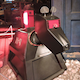
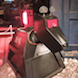
introducing marvin

diff --git a/server/bots/marvin.js b/server/bots/marvin.js
@@ -1,0 +1,64 @@
+const getTurns = (botToken, getState, turnsPlayedByBot, successfullTurnsPlayedByBot, viewerBoard) => {
+
+  
+  const continuePreviousHits = []
+
+  successfullTurnsPlayedByBot.forEach(turnIndex => {
+    if(turnsPlayedByBot.indexOf(turnIndex) !== -1) {
+      return
+    }
+    // up
+    if(turnIndex > 9) {
+        continuePreviousHits.push(turnIndex - 10)
+    }
+    if((turnIndex % 10) < 9) {
+        continuePreviousHits.push(turnIndex + 1)
+    }
+    if(turnIndex < 90) {
+        continuePreviousHits.push(turnIndex + 10)
+    }
+    if((turnIndex % 10) > 0) {
+        continuePreviousHits.push(turnIndex - 1)
+    }
+  })
+  const validPositions = viewerBoard.reduce((previousValidPositions, position, index) => {
+    return position > 0 && turnsPlayedByBot.indexOf(index) === -1 ? [... previousValidPositions, index] : previousValidPositions
+  }, [])
+  
+  let lookForAvailableSpot = true
+  let botTurns = []
+  let pendingMoves = []
+  let botSelectedCell = false
+  while(lookForAvailableSpot) {
+    console.log(turnsPlayedByBot.length, validPositions)
+    const guessPool = [...continuePreviousHits]
+    const smartGuess = Math.floor(Math.random() * 60) < turnsPlayedByBot.length ?
+      validPositions[Math.floor(Math.random() * validPositions.length)] : 
+      (guessPool.length > 0 ? guessPool[Math.floor(Math.random() * guessPool.length)] : false)
+    console.log(smartGuess, Math.floor(Math.random() * 60) < turnsPlayedByBot.length)
+    let randomSpot = smartGuess !== false && turnsPlayedByBot.indexOf(smartGuess) === -1 && pendingMoves.indexOf(smartGuess) === -1 && smartGuess || Math.floor(Math.random() * 100)
+    if(turnsPlayedByBot.indexOf(randomSpot) === -1 && pendingMoves.indexOf(randomSpot) === -1) {
+      botSelectedCell = randomSpot
+      const botHit = getState().getIn(['match', 'viewerBoard', botSelectedCell])
+      pendingMoves.push(botSelectedCell)
+      botTurns.push({ id: botToken.id, index: botSelectedCell, hit: botHit !== 0, foundItem: botHit !== 0 > 0 && botHit, on: new Date().getTime() })
+      if(botHit === 0) {
+        lookForAvailableSpot = false
+      }
+    }
+    
+    // safeguarding against fatal infinite loops
+    if((botTurns.length + turnsPlayedByBot.length) > 98) {
+      lookForAvailableSpot = false
+    }
+  }
+  
+  return botTurns
+}
+
+const Marvin = {
+  getTurns,
+  getRotated: () => Math.floor(Math.random() * 100) > 33,
+}
+
+export default Marvin

diff --git a/client/components/NewGame/Friend.js b/client/components/NewGame/Friend.js
@@ -3,6 +3,7 @@ import { shouldComponentUpdate } from 'react-addons-pure-render-mixin'
 import { Link } from 'react-router'
 import Avatar from 'react-user-avatar'
 import style from './style.scss'
+import TimeAgo from 'react-timeago'
 
 const defaultColors = [
   '#1abc9c',
@@ -27,6 +28,11 @@ const defaultColors = [
   '#7f8c8d'
 ]
 
+const timeAgoFormatter = (value, unit) => {
+  const formattedUnit = unit === 'month' ? 'M' : unit.slice(0, 1)
+  return `${value} ${formattedUnit}`
+}
+
 class Friend extends Component {
   
   shouldComponentUpdate = shouldComponentUpdate
@@ -41,7 +47,11 @@ class Friend extends Component {
       <span className={online ? style.avatarOnline : style.avatar}>
         <Avatar colors={defaultColors} size="39" name={username} src={avatar} />
       </span>
-      <span className={style.username}>{friend.get('username')}</span>
+      <span className={style.username}>
+      {friend.get('username')}
+      {friend.has('description') && <small>{friend.get('description')}</small>}
+      {!online && friend.has('lastVisit') && <small><TimeAgo date={friend.get('lastVisit')} formatter={timeAgoFormatter} /></small>}
+      </span>
       <span className={style.startGame}>❯</span>
     </Link>
   }

diff --git a/client/reducers/bots.js b/client/reducers/bots.js
@@ -2,9 +2,9 @@ import { fromJS } from 'immutable'
 
 const initialState = fromJS([
   { id: "-1", username: 'Wall-E', online: '1', avatar: '/bot/walle.png', description: `Lets you win` },
-  { id: "-2", username: 'R2D2', online: '1', avatar: '/bot/r2d2.png', status: `A bit harder to beat` },
-  { id: "-3", username: 'K-9', online: '1', avatar: '/bot/k9.png', status: `Sniffs out your hiding spots` },
-  //{ id: "-4", username: 'Marvin', online: '1', avatar: '/bot/marvin.png', status: `Gets depressed if he beats you` },
+  { id: "-2", username: 'R2D2', online: '1', avatar: '/bot/r2d2.png', description: `A bit harder to beat` },
+  { id: "-3", username: 'K-9', online: '1', avatar: '/bot/k9.png', description: `Sniffs out your hiding spots` },
+  { id: "-4", username: 'Marvin', online: '1', avatar: '/bot/marvin.png', description: `Gets depressed if he beats you` },
   //{ id: "-5", username: 'HAL 9000', online: '1', avatar: '/bot/hal.png', status: `Makes very few mistakes` },
   //{ id: "-6", username: 'GLaDOS', online: '1', avatar: '/bot/glados.png', status: `She'll give you cake if you win` },
 ])

diff --git a/server/bots/k9.js b/server/bots/k9.js
@@ -29,9 +29,6 @@ const getTurns = (botToken, getState, turnsPlayedByBot, successfullTurnsPlayedBy
     
     const guessPool = [...continuePreviousHits]
     const smartGuess = guessPool.length > 0 ? guessPool[Math.floor(Math.random() * guessPool.length)] : false
-    if(smartGuess) {
-      continuePreviousHits.delete(smartGuess)
-    }
     
     let randomSpot = smartGuess !== false && turnsPlayedByBot.indexOf(smartGuess) === -1 && pendingMoves.indexOf(smartGuess) === -1 && smartGuess || Math.floor(Math.random() * 100)
     if(turnsPlayedByBot.indexOf(randomSpot) === -1 && pendingMoves.indexOf(randomSpot) === -1) {

diff --git a/server/actions/gamePlay.js b/server/actions/gamePlay.js
@@ -238,7 +238,8 @@ export const fireCannon = (
         
         if(turnsPlayedByBot.length === 99) return false // game over
         
-        const botTurns = getBotTurns(botToken, getState, turnsPlayedByBot, successfullTurnsPlayedByBot)
+        const viewerBoard = getState().getIn(['match', 'viewerBoard'])
+        const botTurns = getBotTurns(botToken, getState, turnsPlayedByBot, successfullTurnsPlayedByBot, viewerBoard)
                 
         botTurns.forEach((botTurn, index) => {
           // lets timeout the response so the user is able to notice the bot already responded

diff --git a/client/components/NewGame/index.js b/client/components/NewGame/index.js
@@ -58,7 +58,6 @@ class NewGame extends Component {
           </div>
         </header>
         <div className={style.container}>
-          <p className={style.tip}>Wall-E is a very friendly robot, he will let you win. R2-D2 is a <em>bit</em> tougher. With a digitally enhanced sense of smell, K-9 will sniff his way through your board…</p>
           <h4 className={style.heading}>Bots</h4>
           {bots.toArray().map(bot => <Friend key={bot.get('id')} friend={bot} />)}
         </div>

diff --git a/client/components/NewGame/style.scss b/client/components/NewGame/style.scss
@@ -5,9 +5,6 @@
   margin-left: 0;
   margin-right: 0;
 }
-.tip {
-  composes: message from '../../style/_bulma.scss';
-}
 .headerItem {
   composes: column is-flex from '../../style/_bulma.scss';
   align-items: center;
@@ -110,6 +107,11 @@
   padding-left: 5px;
   color: $grey-dark;
   word-wrap: break-word;
+  
+  small {
+    display: block;
+    opacity: .7;
+  }
 }
 
 .startGame {

diff --git a/server/bots/index.js b/server/bots/index.js
@@ -1,10 +1,12 @@
 import WallE from './walle'
 import R2D2 from './r2d2'
 import K9 from './k9'
+import Marvin from './marvin'
 
 const bots = {
   "-1": WallE,
   "-2": R2D2,
   "-3": K9,
+  "-4": Marvin,
 }
 export default bots
